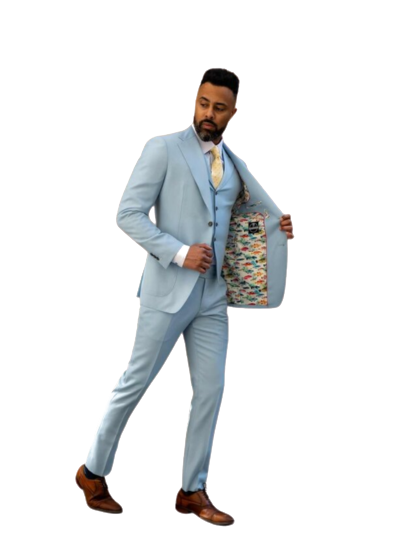
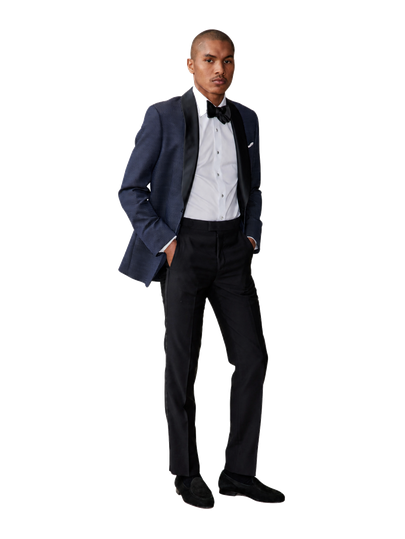
Update attire dress code and examples

Changed region(s): [[0.1778, 0.0297, 0.7407, 0.9796]]

diff --git a/pages.js b/pages.js
@@ -146,10 +146,10 @@ const pages = {
       <div class="party-column"><h3>Groomsmen</h3><div class="portrait-grid" data-party="groomsmen"></div></div>
     </div>`),
 
-  attire: page("06", "What to Wear / Qué Ponerse", "Funky<br>Formal.", `
+  attire: page("06", "What to Wear / Qué Ponerse", "Colorful<br>Black Tie.", `
     <div class="attire-copy reveal">
-      <p>Bring the color. Wear something that feels like you—and feels ready for a very good dance floor.</p>
-      <p>Traigan el color. Usen algo que se sienta auténtico y listo para una gran pista de baile.</p>
+      <p>Our dress code is colorful black tie: formal silhouettes, rich color, pattern, texture, and personal style. Floor-length dresses, formal jumpsuits, tuxedos, and dark suits are all welcome.</p>
+      <p>Nuestro código de vestimenta es black tie colorido: siluetas formales, colores vivos, estampados, texturas y estilo personal. Vestidos largos, jumpsuits formales, esmóquines y trajes oscuros son bienvenidos.</p>
       <div class="attire-rule"><span>Please reserve white for the bride.</span><span>Por favor, reserven el blanco para la novia.</span></div>
     </div>
     <div class="mood-board">
@@ -157,7 +157,7 @@ const pages = {
       ${moodPhoto("2.png", 2, "Coral tiered ruffle gown")}
       ${moodPhoto("3.png", -2, "Chartreuse feather-trimmed cape gown")}
       ${moodPhoto("4.png", 3, "Olive suit with floral embroidered cuffs")}
-      ${moodPhoto("5.png", -1, "Light blue three-piece suit with patterned lining")}
+      ${moodPhoto("5.png", -1, "Blue patterned tuxedo jacket with black bow tie")}
     </div>`, "section-green"),
 
   registry: page("07", "Registry / Mesa de Regalos", "Your presence<br>is the present.", `
@@ -170,7 +170,7 @@ const pages = {
     <div class="accordion">
       ${faq("Can I bring a plus-one?", "Plus-ones are invited only when named on your invitation.", "Los acompañantes están invitados únicamente cuando aparecen en la invitación.")}
       ${faq("Are children invited?", "We are selectively inviting children. Your RSVP will show every invited member of your household.", "Algunos niños están invitados. El RSVP mostrará a cada persona invitada de su familia.")}
-      ${faq("What is funky formal?", "Formal, expressive, and full of personality. Bring the color and leave white for the bride.", "Formal, expresivo y lleno de personalidad. Traigan el color y reserven el blanco para la novia.")}
+      ${faq("What is colorful black tie?", "Think black tie, but with color encouraged: elevated, formal, expressive, and full of personality. Please reserve white for the bride.", "Piensen en black tie, pero con color: elegante, formal, expresivo y lleno de personalidad. Por favor reserven el blanco para la novia.")}
       ${faq("When should I arrive?", "Please arrive at The Lane at 4:00 PM on Saturday, April 3.", "Por favor lleguen a The Lane a las 4:00 PM el sábado 3 de abril.")}
       ${faq("Can I update my RSVP?", "Yes. Return to RSVP, search your family name, and submit an updated response.", "Sí. Regresen al RSVP, busquen su apellido y envíen una respuesta actualizada.")}
     </div>`, "section-cement"),

diff --git a/attire/index.html b/attire/index.html
@@ -1,1 +1,1 @@
-<!doctype html><html lang="en"><head><meta charset="UTF-8"><meta name="viewport" content="width=device-width,initial-scale=1"><title>Funky Formal — Sophie & Ubaldo</title><link href="https://fonts.googleapis.com/css2?family=DM+Sans:wght@300;400;500;600&family=Instrument+Serif:ital@0;1&display=swap" rel="stylesheet"><link rel="icon" href="/favicon.svg" type="image/svg+xml"><link rel="alternate icon" href="/favicon.ico"><link rel="apple-touch-icon" href="/apple-touch-icon.png"><link rel="stylesheet" href="/styles.css"><script src="/pages.js" defer></script><script src="/script.js" defer></script></head><body data-page="attire"></body></html>
+<!doctype html><html lang="en"><head><meta charset="UTF-8"><meta name="viewport" content="width=device-width,initial-scale=1"><title>Colorful Black Tie — Sophie & Ubaldo</title><link href="https://fonts.googleapis.com/css2?family=DM+Sans:wght@300;400;500;600&family=Instrument+Serif:ital@0;1&display=swap" rel="stylesheet"><link rel="icon" href="/favicon.svg" type="image/svg+xml"><link rel="alternate icon" href="/favicon.ico"><link rel="apple-touch-icon" href="/apple-touch-icon.png"><link rel="stylesheet" href="/styles.css"><script src="/pages.js" defer></script><script src="/script.js" defer></script></head><body data-page="attire"></body></html>

diff --git a/public/images/outfit-inspiration/README.md b/public/images/outfit-inspiration/README.md
@@ -1,3 +1,3 @@
-# Funky formal inspiration
+# Colorful black tie inspiration
 
 Add colorful formalwear references here.
